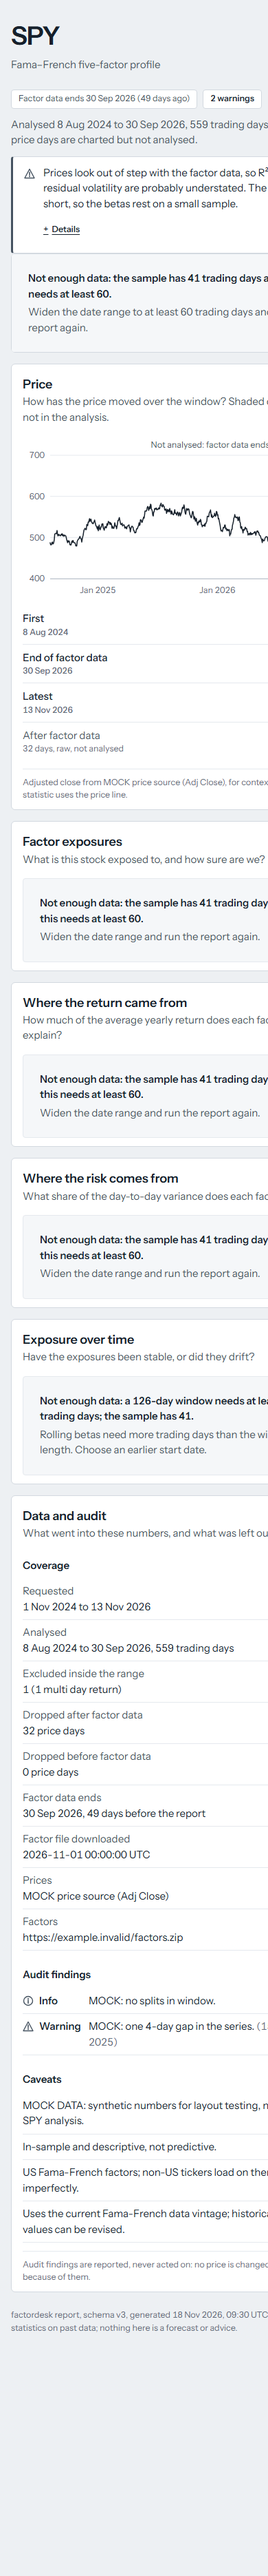
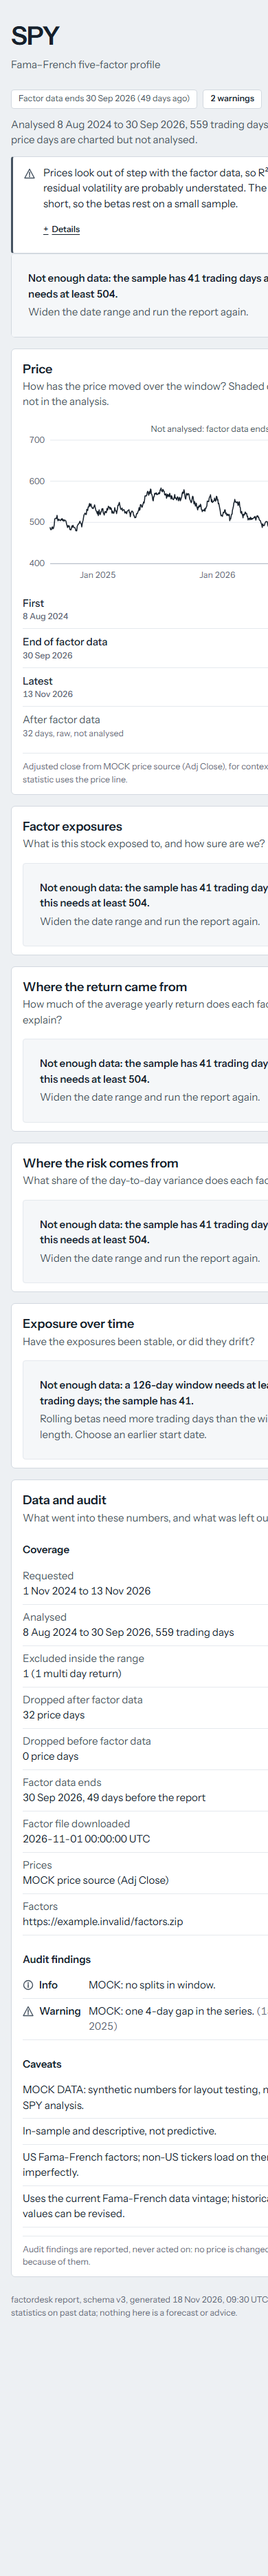
Remove the wrong 60-day minimum from the empty-state text; regenerate the prototype

Changed region(s): [[0.0615, 0.1241, 1.0, 0.8995]]

diff --git a/docs/design/prototype/report-empty.html b/docs/design/prototype/report-empty.html
@@ -480,7 +480,7 @@ rect.c1 { fill: var(--f1); } rect.c2 { fill: var(--f2); } rect.c3 { fill: var(--
   <aside class="notice" id="notice" aria-label="Data quality"><svg class="glyph" aria-hidden="true" viewBox="0 0 16 16"><path d="M8 1.5 15 14.5H1z"/><path class="cut" d="M8 6v4M8 11.6v1"/></svg><div><p class="notice-sum"><span class="vh">Warning: </span>Prices look out of step with the factor data, so R² and residual volatility are probably understated. The history is short, so the betas rest on a small sample.</p><details class="how"><summary>Details</summary><ul><li>MOCK: Daily price changes partly reverse the next day: the lag-1 autocorrelation of the regression residuals is -0.31 (robust z -6.2).</li><li>MOCK: short history.</li></ul></details></div></aside>
 </header>
 
-<section class="kpis" aria-label="Headline statistics"><div class="empty" role="note"><p class="empty-what">Not enough data: the sample has 41 trading days and this needs at least 60.</p><p class="empty-do">Widen the date range to at least 60 trading days and run the report again.</p></div></section>
+<section class="kpis" aria-label="Headline statistics"><div class="empty" role="note"><p class="empty-what">Not enough data: the sample has 41 trading days and this needs at least 504.</p><p class="empty-do">Widen the date range and run the report again.</p></div></section>
 
 <section class="panel" id="price" aria-labelledby="price-t">
   <header class="panel-head"><div><h2 id="price-t">Price</h2><p class="q">How has the price moved over the window? Shaded days are not in the analysis.</p></div></header>
@@ -491,9 +491,9 @@ rect.c1 { fill: var(--f1); } rect.c2 { fill: var(--f2); } rect.c3 { fill: var(--
   </div>
   <p class="foot">Adjusted close from MOCK price source (Adj Close), for context only; no statistic uses the price line.</p>
 </section>
-<section class="panel" id="exposures" aria-labelledby="beta-t"><header class="panel-head"><div><h2 id="beta-t">Factor exposures</h2><p class="q">What is this stock exposed to, and how sure are we?</p></div></header><div class="empty" role="note"><p class="empty-what">Not enough data: the sample has 41 trading days and this needs at least 60.</p><p class="empty-do">Widen the date range and run the report again.</p></div></section>
-<section class="panel" id="returns" aria-labelledby="ret-t"><header class="panel-head"><div><h2 id="ret-t">Where the return came from</h2><p class="q">How much of the average yearly return does each factor explain?</p></div></header><div class="empty" role="note"><p class="empty-what">Not enough data: the sample has 41 trading days and this needs at least 60.</p><p class="empty-do">Widen the date range and run the report again.</p></div></section>
-<section class="panel" id="risk" aria-labelledby="risk-t"><header class="panel-head"><div><h2 id="risk-t">Where the risk comes from</h2><p class="q">What share of the day-to-day variance does each factor drive?</p></div></header><div class="empty" role="note"><p class="empty-what">Not enough data: the sample has 41 trading days and this needs at least 60.</p><p class="empty-do">Widen the date range and run the report again.</p></div></section>
+<section class="panel" id="exposures" aria-labelledby="beta-t"><header class="panel-head"><div><h2 id="beta-t">Factor exposures</h2><p class="q">What is this stock exposed to, and how sure are we?</p></div></header><div class="empty" role="note"><p class="empty-what">Not enough data: the sample has 41 trading days and this needs at least 504.</p><p class="empty-do">Widen the date range and run the report again.</p></div></section>
+<section class="panel" id="returns" aria-labelledby="ret-t"><header class="panel-head"><div><h2 id="ret-t">Where the return came from</h2><p class="q">How much of the average yearly return does each factor explain?</p></div></header><div class="empty" role="note"><p class="empty-what">Not enough data: the sample has 41 trading days and this needs at least 504.</p><p class="empty-do">Widen the date range and run the report again.</p></div></section>
+<section class="panel" id="risk" aria-labelledby="risk-t"><header class="panel-head"><div><h2 id="risk-t">Where the risk comes from</h2><p class="q">What share of the day-to-day variance does each factor drive?</p></div></header><div class="empty" role="note"><p class="empty-what">Not enough data: the sample has 41 trading days and this needs at least 504.</p><p class="empty-do">Widen the date range and run the report again.</p></div></section>
 <section class="panel" id="rolling" aria-labelledby="roll-t"><header class="panel-head"><div><h2 id="roll-t">Exposure over time</h2><p class="q">Have the exposures been stable, or did they drift?</p></div></header><div class="empty" role="note"><p class="empty-what">Not enough data: a 126-day window needs at least 126 trading days; the sample has 41.</p><p class="empty-do">Rolling betas need more trading days than the window length. Choose an earlier start date.</p></div></section>
 
 <section class="panel data" id="data" aria-labelledby="data-t">

diff --git a/frontend/src/components/report/KpiStrip.tsx b/frontend/src/components/report/KpiStrip.tsx
@@ -20,7 +20,7 @@ export function KpiStrip({ report }: ReportPanelProps) {
       <section className="kpis" id="kpis" aria-label="Headline statistics">
         <EmptyState
           reason={g.reason ?? "The regression could not be computed."}
-          action="Widen the date range to at least 60 trading days and run the report again."
+          action="Widen the date range and run the report again."
         />
       </section>
     );

diff --git a/docs/design/prototype/build_prototype.py b/docs/design/prototype/build_prototype.py
@@ -254,7 +254,7 @@ def equation(r: dict) -> str:
 def kpis(r: dict) -> str:
     g, d = r["regression"], r["data"]
     if g["status"] != "ok":
-        return f'<section class="kpis" aria-label="Headline statistics">{empty_state(g["reason"], "Widen the date range to at least 60 trading days and run the report again.")}</section>'
+        return f'<section class="kpis" aria-label="Headline statistics">{empty_state(g["reason"], "Widen the date range and run the report again.")}</section>'
     a_ns = g["alpha_tag"] != "reliable"
     alpha_note = "Not distinguishable from zero" if a_ns else "Distinguishable from zero at 5%"
     excl = d["n_excluded"]
@@ -896,7 +896,7 @@ def add_roles(body: str) -> str:
 def make_empty(r: dict) -> dict:
     """Mutate a copy of the fixture so every statistic reports insufficient data."""
     x = copy.deepcopy(r)
-    msg = "Not enough data: the sample has 41 trading days and this needs at least 60."
+    msg = "Not enough data: the sample has 41 trading days and this needs at least 504."
     for key in ("regression", "return_contribution", "risk_contribution", "average_beta"):
         x[key]["status"] = "insufficient_data"
         x[key]["reason"] = msg

diff --git a/backend/factordesk/report/render_html.py b/backend/factordesk/report/render_html.py
@@ -585,7 +585,7 @@ def _kpis(report: FactorReport) -> str:
     if g.status != "ok":
         body = _empty(
             g.reason or "The regression could not be computed.",
-            "Widen the date range to at least 60 trading days and run the report again.",
+            "Widen the date range and run the report again.",
         )
         return f'<section class="kpis" aria-label="Headline statistics">{body}</section>'
     if g.alpha_tag == "reliable":
